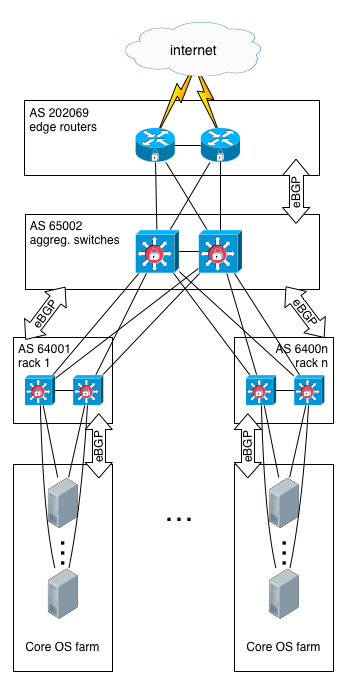
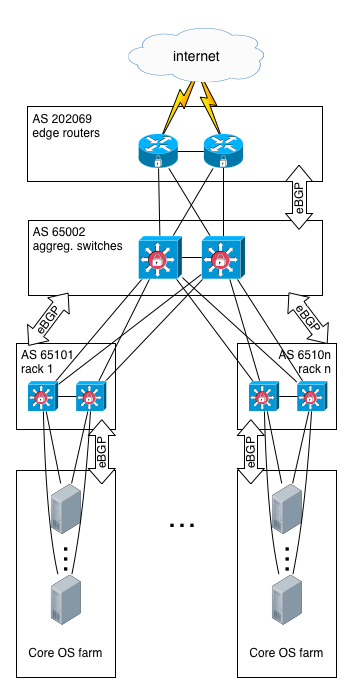
fix AS6400 typo

Changed region(s): [[0.0287, 0.0307, 0.977, 0.981], [0.4598, 0.7358, 0.546, 0.7664]]

diff --git a/_posts/2016-01-06-bgp-routing-to-containers.md b/_posts/2016-01-06-bgp-routing-to-containers.md
@@ -89,7 +89,7 @@ From a network point of view, we used this huge change as an opportunity to swit
 
 Therefore, we setup BGP on each level, from edge routers to top-of-rack (ToR) switches. It looks like this:
 
-<img src="/images/2016-01-06-bgp-routing-to-containers/new-infra1.png" class="block" style="width: 346px;" />
+<img src="/images/2016-01-06-bgp-routing-to-containers/new-infra1.png" class="block" style="width: 357px;" />
 
 Then, in each rack, a single `CoreOS` server is dedicated to load-balancing. It runs a set of containers (called a `pod`), and this pod is in charge of running ExaBGP, and announce the VIPs handled by this LB.
 
@@ -100,14 +100,14 @@ group neighbors {
   neighbor 10.20.151.129 {
     router-id 10.20.151.147;
     local-address 10.20.151.147;
-    local-as 64147;
-    peer-as 64001;
+    local-as 65147;
+    peer-as 65101;
   }
   neighbor 10.20.151.130 {
     router-id 10.20.151.147;
     local-address 10.20.151.147;
-    local-as 64147;
-    peer-as 64001;
+    local-as 65147;
+    peer-as 65101;
   }
 }
 {% endhighlight%}
@@ -136,7 +136,7 @@ We though about several workarounds:
 First idea we had: connect the LBs directly to aggregation switches, and not to ToR. We had to use multihop mode of BGP:
 
     router bgp 65002
-      neighbor a.b.c.d remote-as 64xxx
+      neighbor a.b.c.d remote-as 651xx
         ebgp-multihop 2
 
 Unfortunately, using this solution, next-hop attribute for the received routes was unknown in the IGP of the aggregation layer. Thus, the route was not inserted into RIB.
@@ -160,7 +160,7 @@ Indeed, in our container oriented infrastructure, orchestration of the container
 
 It appeared to us that `ExaBGP` should speak directly with `ZooKeeper` to determine what to announce to BGP routers. Accordingly, we chose to code this plugin: [ExaZK](<https://github.com/shtouff/exazk>)
 
-<img src="/images/2016-01-06-bgp-routing-to-containers/new-infra2.png" class="block" style="width: 507px;" />
+<img src="/images/2016-01-06-bgp-routing-to-containers/new-infra2.png" class="block" style="width: 510px;" />
 
 Principle is:
 
